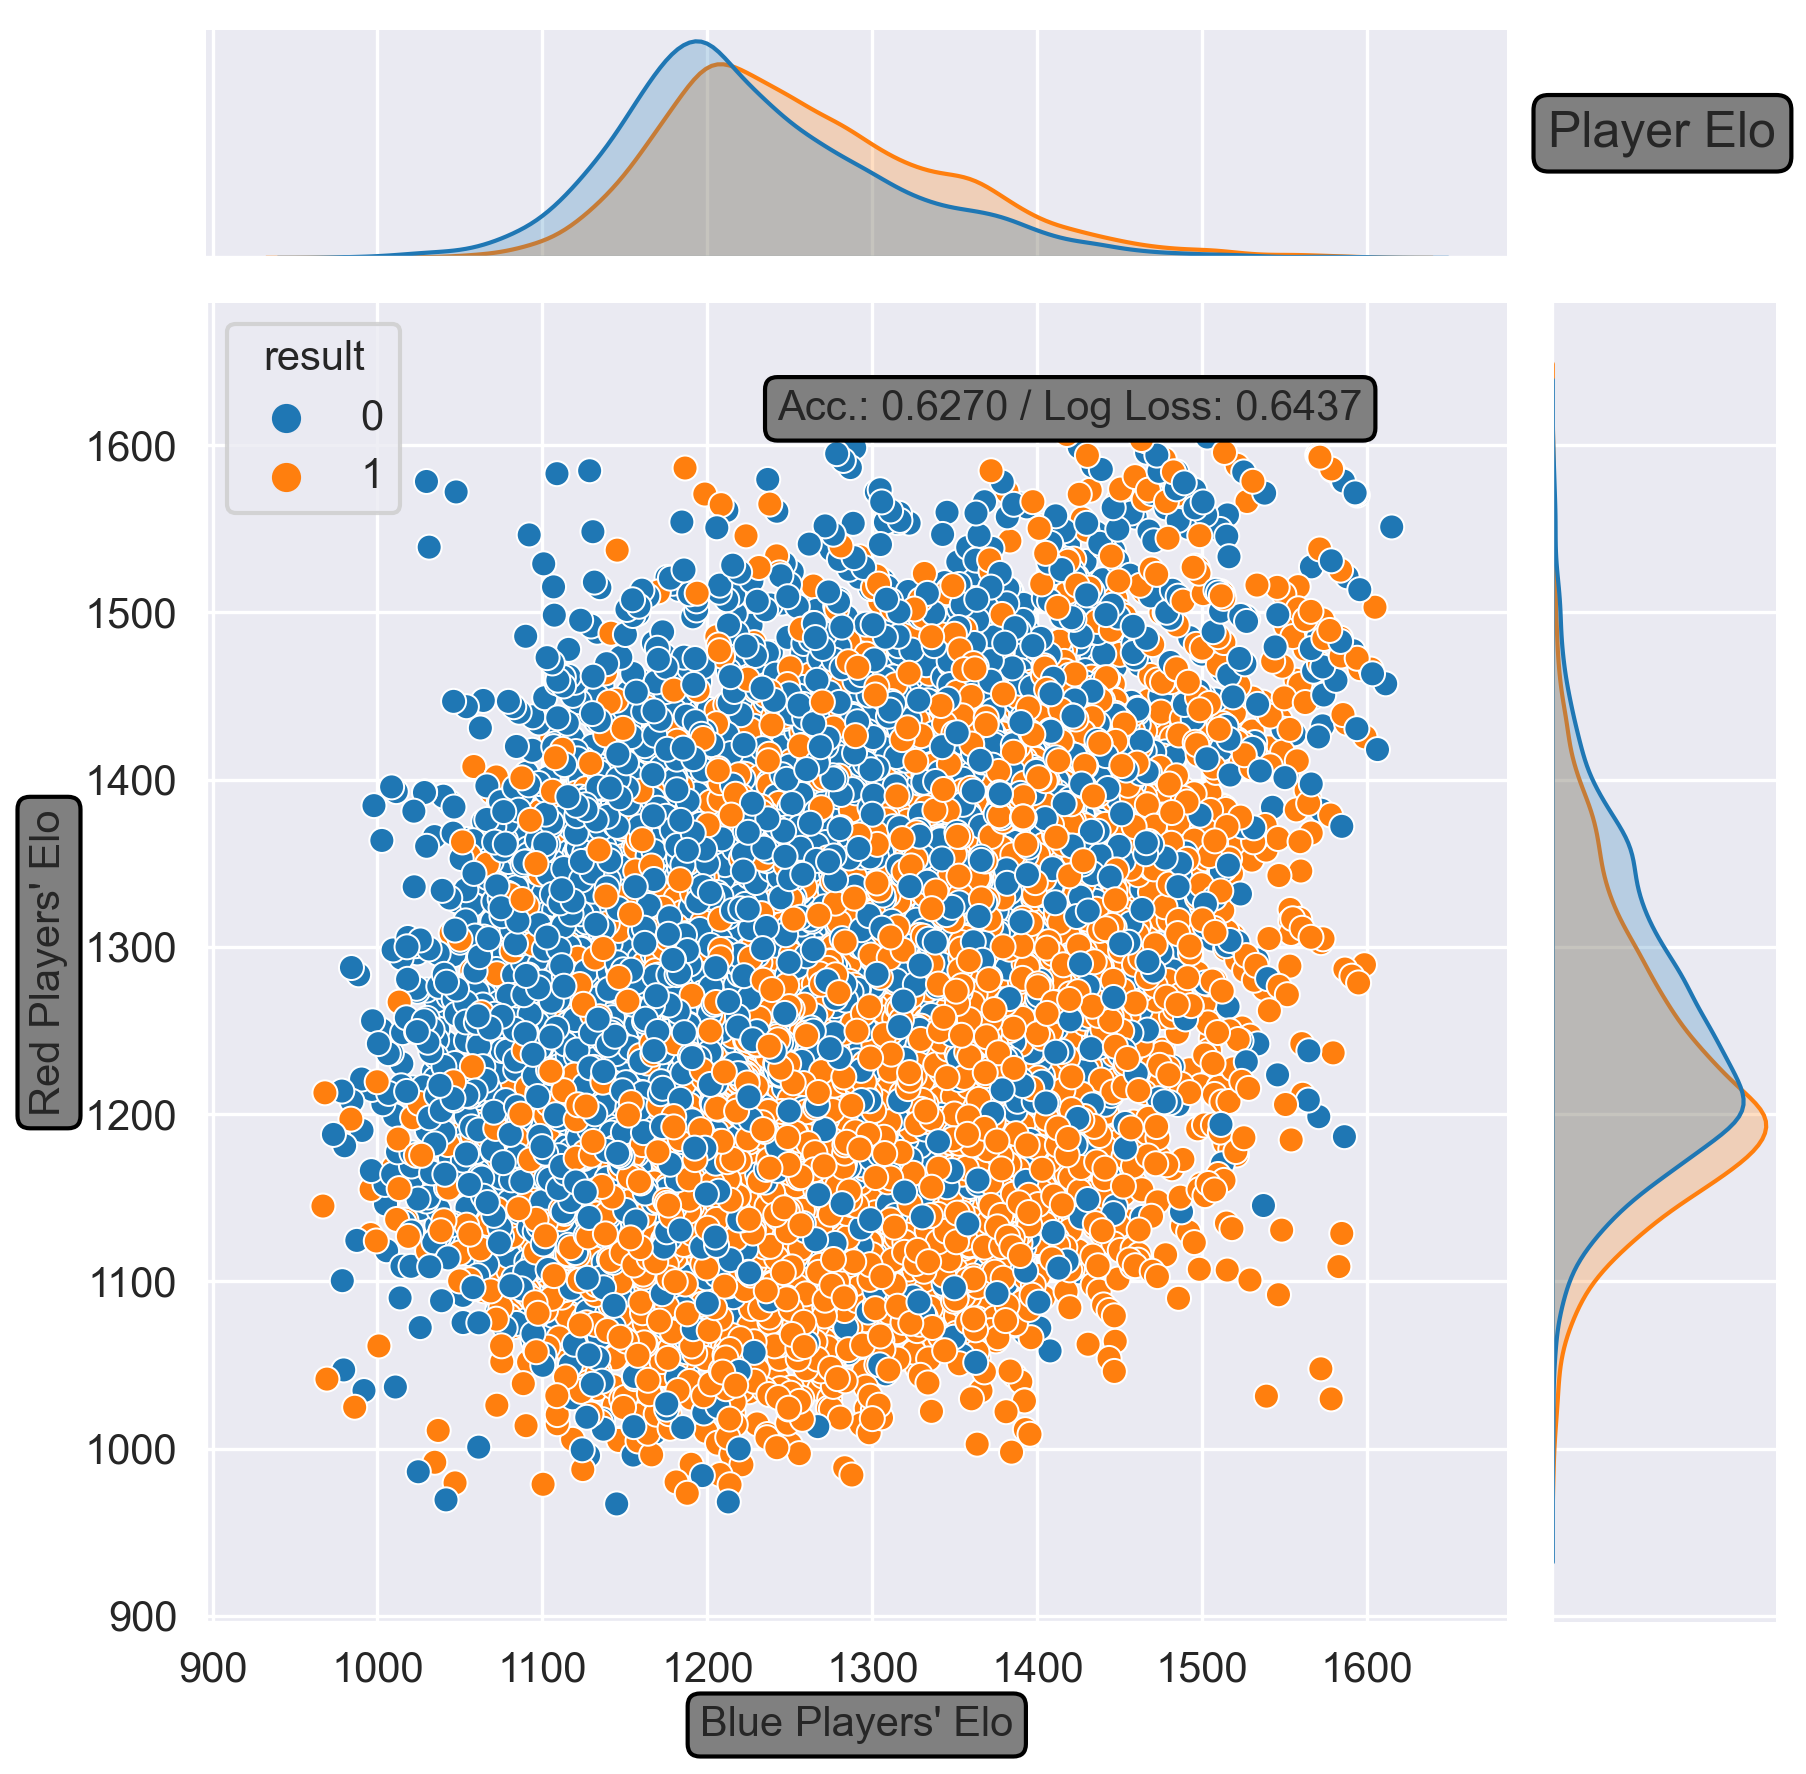
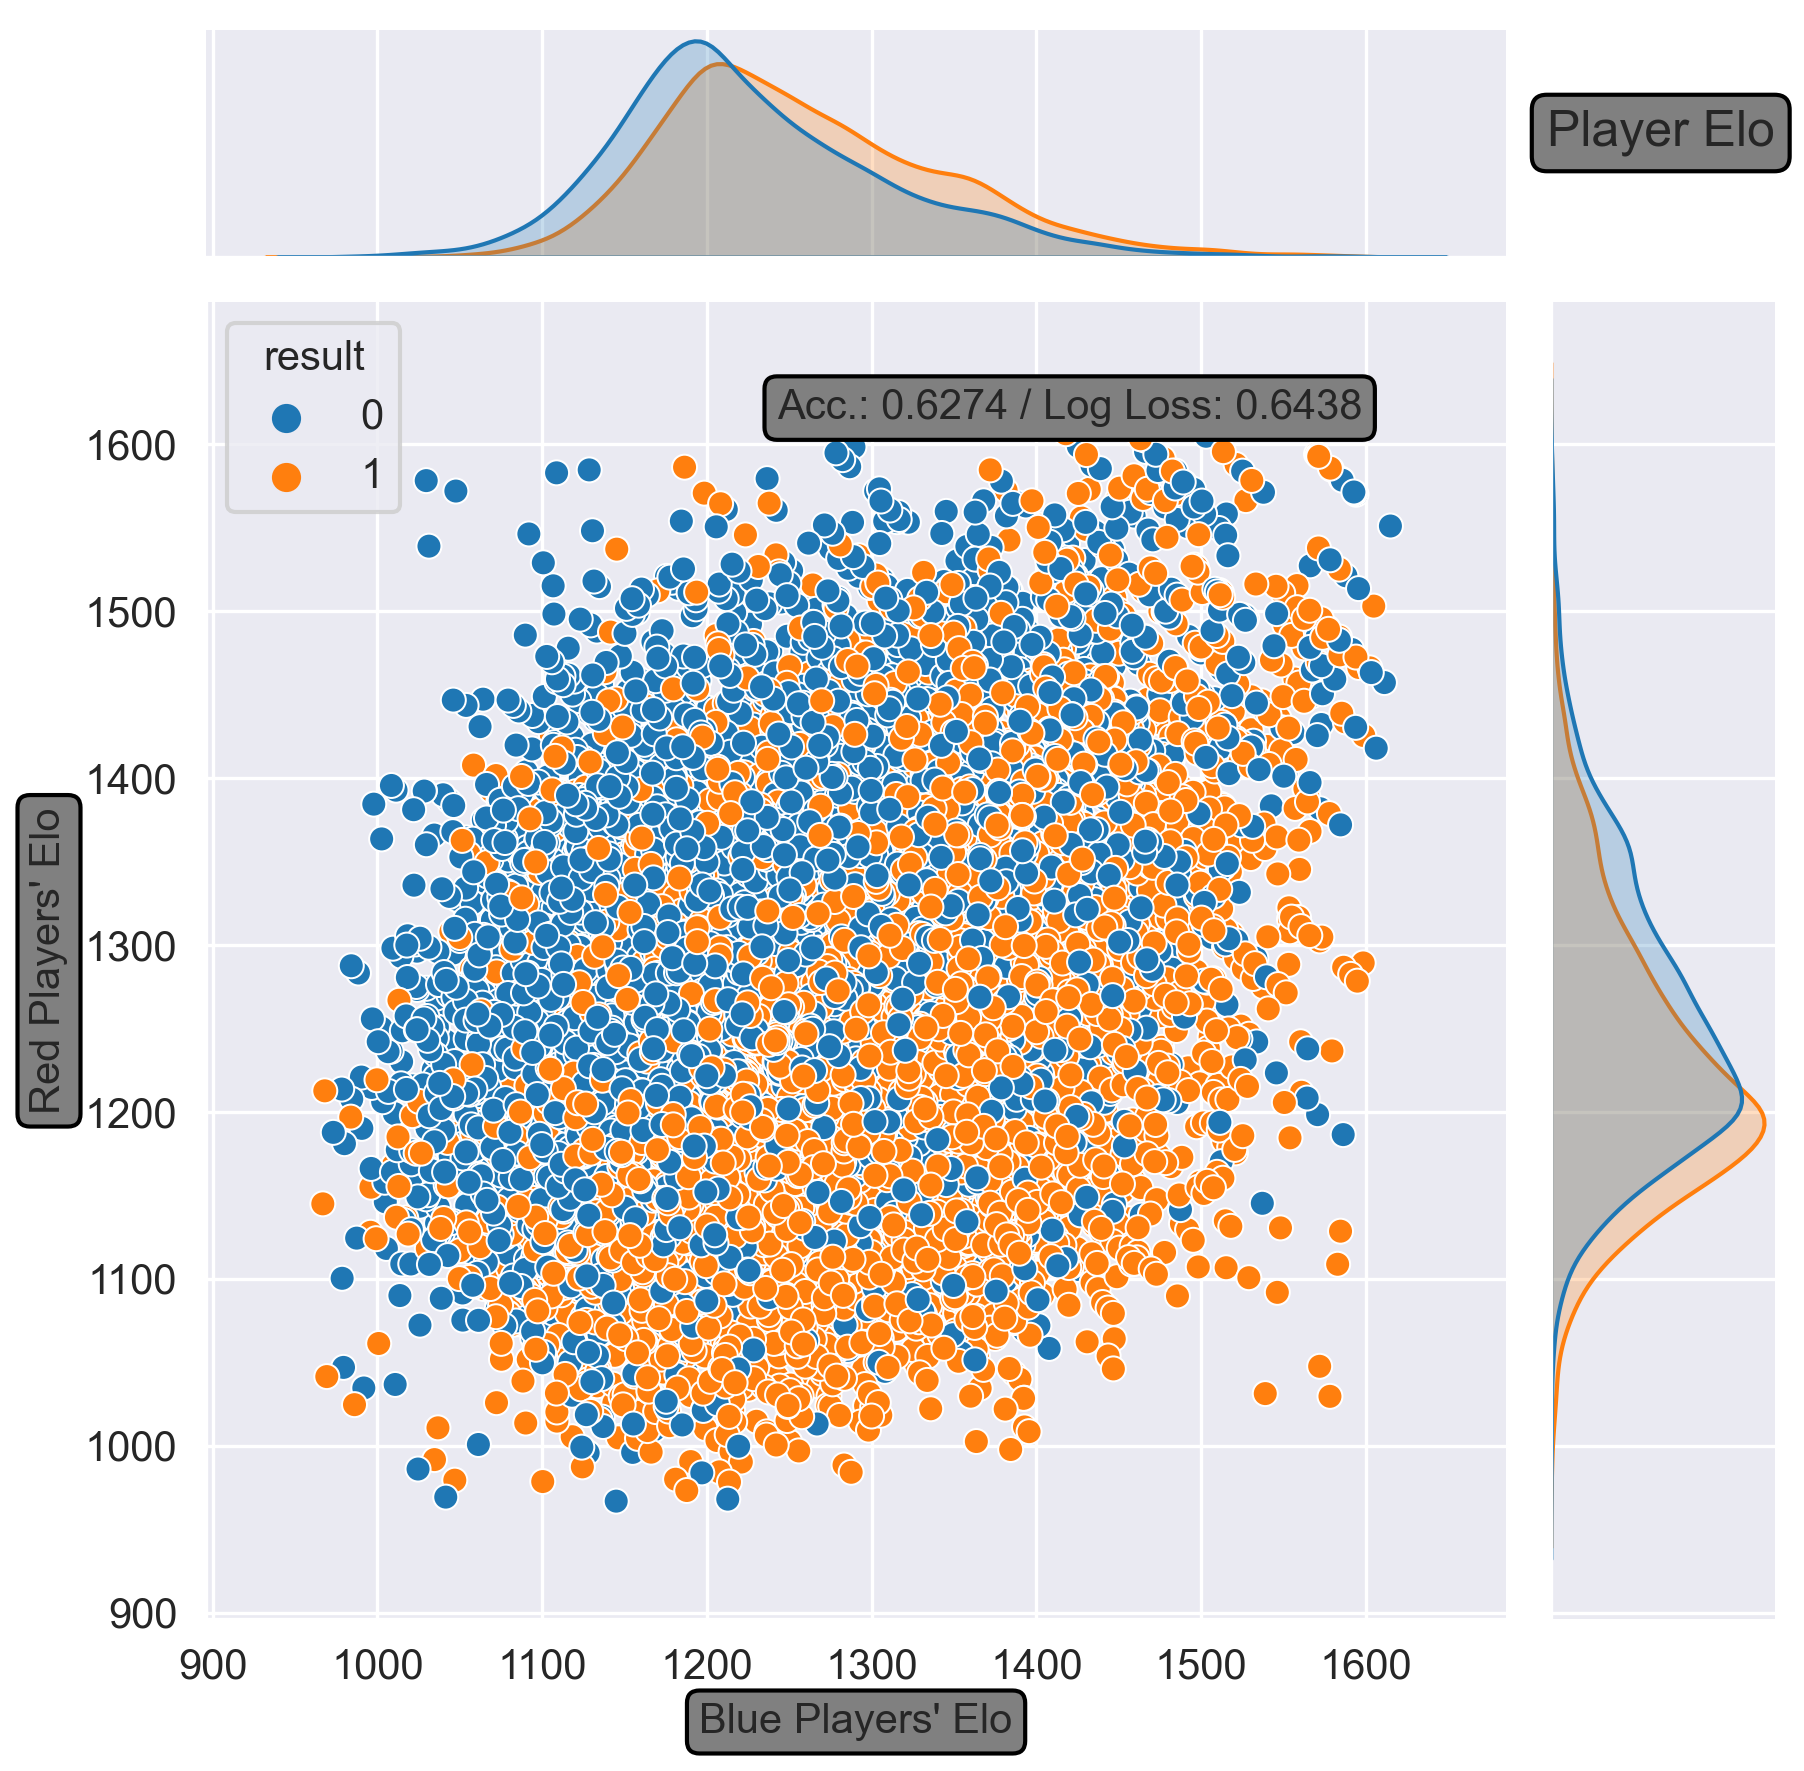
Model Validator Bug Fix
There was a condition where both teams could have been predicted as having won the match when the predicted probability for both teams was 0.5. This update fixes it by giving expected win priority to blue side for purposes of model validation (e.g. if both teams have win perc of 0.5, blue side is expected to win)

diff --git a/src/model_validator.py b/src/model_validator.py
@@ -52,6 +52,9 @@ def validate_team_elo(teams: pd.DataFrame, directory: Path, graph: bool):
     # Data Preparation
     teams['opp_team_elo'] = teams['team_elo_before'] - teams['team_elo_diff']
     teams['team_elo_expected_result'] = np.where(teams['team_elo_win_perc'] >= 0.5, 1, 0)
+    teams['team_elo_expected_result'] = np.where((teams['team_elo_win_perc'] == 0.5) &
+                                                 (teams['side'] == 'Red'), 0,
+                                                 teams['team_elo_expected_result'])
     teams['result'] = teams.result.astype('int32')
 
     # Label Accuracy and Log Loss
@@ -108,6 +111,9 @@ def validate_player_elo(teams: pd.DataFrame, directory: Path, graph: bool):
     # Data Preparation
     teams['opp_player_elo'] = teams['player_elo_before'] - teams['player_elo_diff']
     teams['player_elo_expected_result'] = np.where(teams['player_elo_win_perc'] >= 0.5, 1, 0)
+    teams['player_elo_expected_result'] = np.where((teams['player_elo_win_perc'] == 0.5) &
+                                                   (teams['side'] == 'Red'), 0,
+                                                   teams['player_elo_expected_result'])
     teams['result'] = teams.result.astype('int32')
 
     # Label Accuracy and Log Loss
@@ -163,6 +169,9 @@ def validate_trueskill(teams: pd.DataFrame, directory: Path, graph: bool):
     """
     # Data Preparation
     teams['trueskill_expected_result'] = np.where(teams['trueskill_win_perc'] >= 0.5, 1, 0)
+    teams['trueskill_expected_result'] = np.where((teams['trueskill_win_perc'] == 0.5) &
+                                                  (teams['side'] == 'Red'), 0,
+                                                  teams['trueskill_expected_result'])
     teams['result'] = teams.result.astype('int32')
 
     # Label Accuracy and Log Loss
@@ -219,6 +228,9 @@ def validate_egpm_dominance(teams: pd.DataFrame, directory: Path, graph: bool):
     """
     # Data Preparation
     teams['egpm_dominance_expected_result'] = np.where(teams['egpm_dominance_win_perc'] >= 0.5, 1, 0)
+    teams['egpm_dominance_expected_result'] = np.where((teams['egpm_dominance_win_perc'] == 0.5) &
+                                                       (teams['side'] == 'Red'), 0,
+                                                       teams['egpm_dominance_expected_result'])
     teams['result'] = teams.result.astype('int32')
 
     # Label Accuracy and Log Loss
@@ -275,6 +287,9 @@ def validate_side_ema(teams: pd.DataFrame, directory: Path, graph: bool):
     """
     # Data Preparation
     teams['side_ema_expected_result'] = np.where(teams['side_ema_win_perc'] >= 0.5, 1, 0)
+    teams['side_ema_expected_result'] = np.where((teams['side_ema_win_perc'] == 0.5) &
+                                                 (teams['side'] == 'Red'), 0,
+                                                 teams['side_ema_expected_result'])
     teams['result'] = teams.result.astype('int32')
 
     # Label Accuracy and Log Loss
@@ -357,6 +372,9 @@ def validate_ensemble_accuracy(teams: pd.DataFrame,
                                   (teams['side_ema_win_perc'] * (side_ema_accuracy / sum_accuracy)))
     teams['opp_ensemble_win_perc'] = 1 - teams['ensemble_win_perc']
     teams['ensemble_expected_result'] = np.where(teams['ensemble_win_perc'] >= 0.5, 1, 0)
+    teams['ensemble_expected_result'] = np.where((teams['ensemble_win_perc'] == 0.5) &
+                                                 (teams['side'] == 'Red'), 0,
+                                                 teams['ensemble_expected_result'])
 
     # Label Accuracy and Log Loss
     correct = len(teams[teams['ensemble_expected_result'] == teams['result']]) / len(teams)
